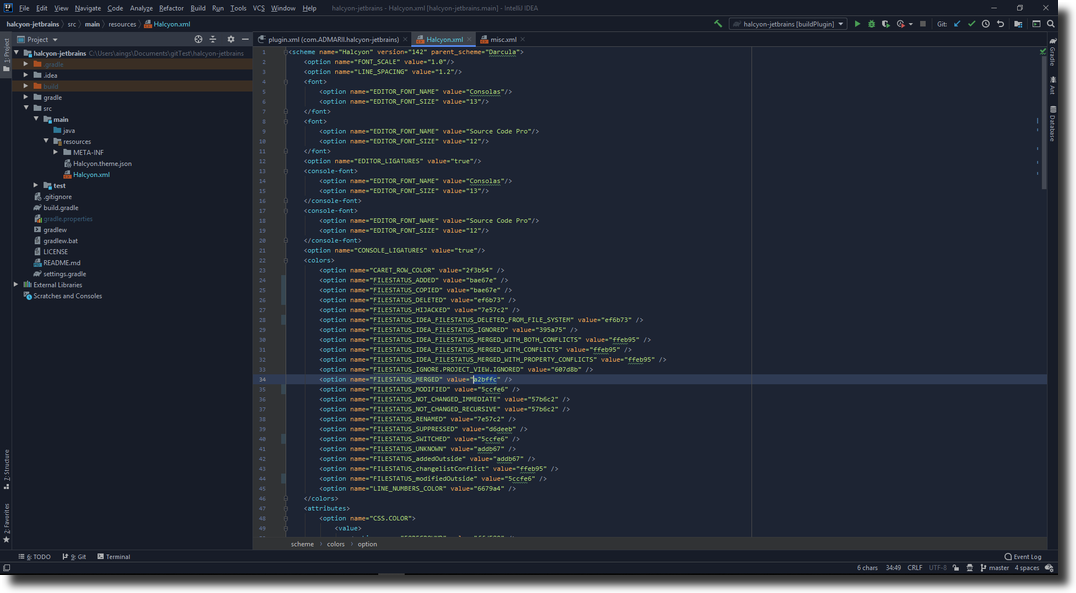
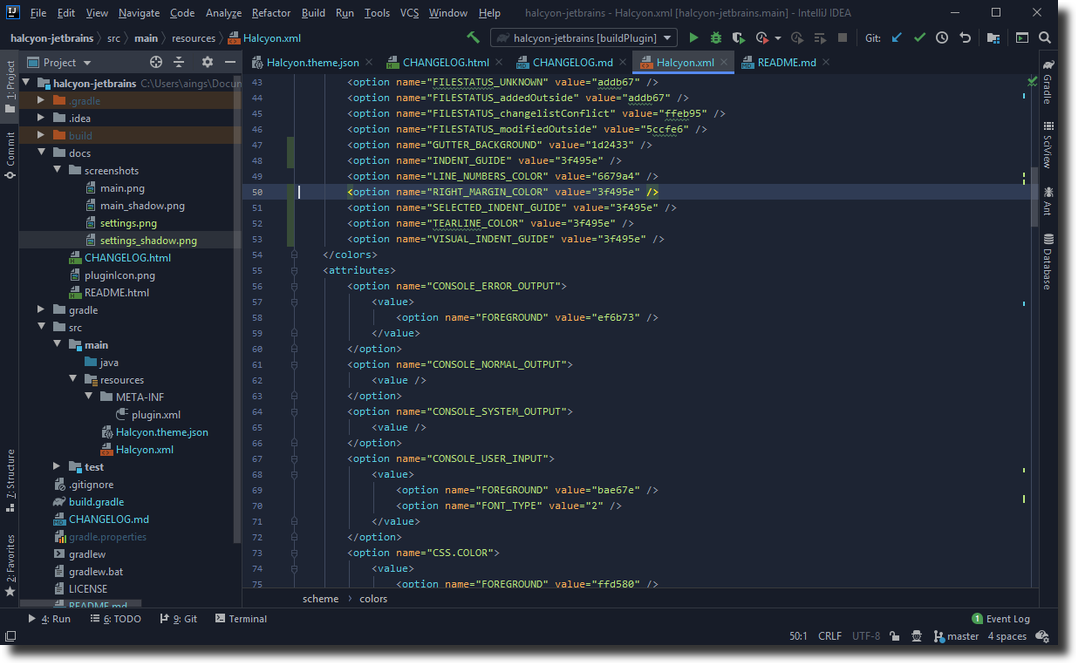
Updated readme and border colors

Changed region(s): [[0.0, 0.0, 0.9814, 0.9713]]

diff --git a/docs/CHANGELOG.html b/docs/CHANGELOG.html
@@ -1,3 +1,9 @@
+<h4>0.2.2</h4>
+<ul>
+    <li>Removed most of the menu borders</li>
+    <li>Fixed gutter background not applying</li>
+    <li>Changed indentation guide colors</li>
+</ul>
 <h4>0.2.1</h4>
 <ul>
     <li>Updated Colors.</li>
@@ -8,4 +14,4 @@
     <li><em>Added the basic theme to the ui and some editor coloring</em></li>
 </ul>
 <p>...</p><br>
-<p>View the full changelog on the <a href="https://github.com/one-dark/jetbrains-one-dark-theme/blob/master/CHANGELOG.md" target="_blank" rel="nofollow">GitHub repo</a>.</p></div></div>
+<p>View the full changelog on the <a href="https://github.com/ADMARIl/halcyon-jetbrains/blob/master/CHANGELOG.md" target="_blank" rel="nofollow">GitHub repo</a>.</p></div></div>

diff --git a/README.md b/README.md
@@ -8,7 +8,7 @@
   A minimal, dark blue theme based on based on <a href="https://github.com/bchiang7/halcyon-vscode">Brittany Chiang's VSCode theme</a>.
 </p>
 
-![demo](https://raw.githubusercontent.com/ADMARIl/halcyon-jetbrains/master/docs/screenshots/main_shadow.png)
+![code](https://raw.githubusercontent.com/ADMARIl/halcyon-jetbrains/master/docs/screenshots/main_shadow.png)
 
 ## Installation via JetBrains
 
@@ -18,6 +18,8 @@
 4. Click **Ok** to apply the changes
 5. Restart the IDE when prompted
 6. If the theme isn't automatically chosen, go to File > Settings > Appearance & Behavior > Appearance > Theme > **Halcyon**
+
+![settings](https://raw.githubusercontent.com/ADMARIl/halcyon-jetbrains/master/docs/screenshots/settings_shadow.png)
 
 ## Manual Installation
 
@@ -56,4 +58,4 @@ Read the [JetBrains Support Page](https://www.jetbrains.com/help/idea/managing-p
 Pull requests are welcome. For major changes, please open an issue first to discuss what you would like to change.
 
 
-###### Many thanks to [Brittany Chiang](https://github.com/bchiang7) and [One Dark](https://github.com/one-dark/jetbrains-one-dark-theme) whose existing work were instrumental in the creation of this theme.
+###### Many thanks to [Brittany Chiang](https://github.com/bchiang7) and [One Dark](https://github.com/one-dark/jetbrains-one-dark-theme) whose existing work was incredibly helpful in the creation of this theme.

diff --git a/CHANGELOG.md b/CHANGELOG.md
@@ -1,5 +1,11 @@
 # Changelog
 
+#### 0.2.2
+
+- Removed most of the menu borders
+- Fixed gutter background not applying
+- Changed indentation guide colors
+
 #### 0.2.1
 
 - Updated colors.
